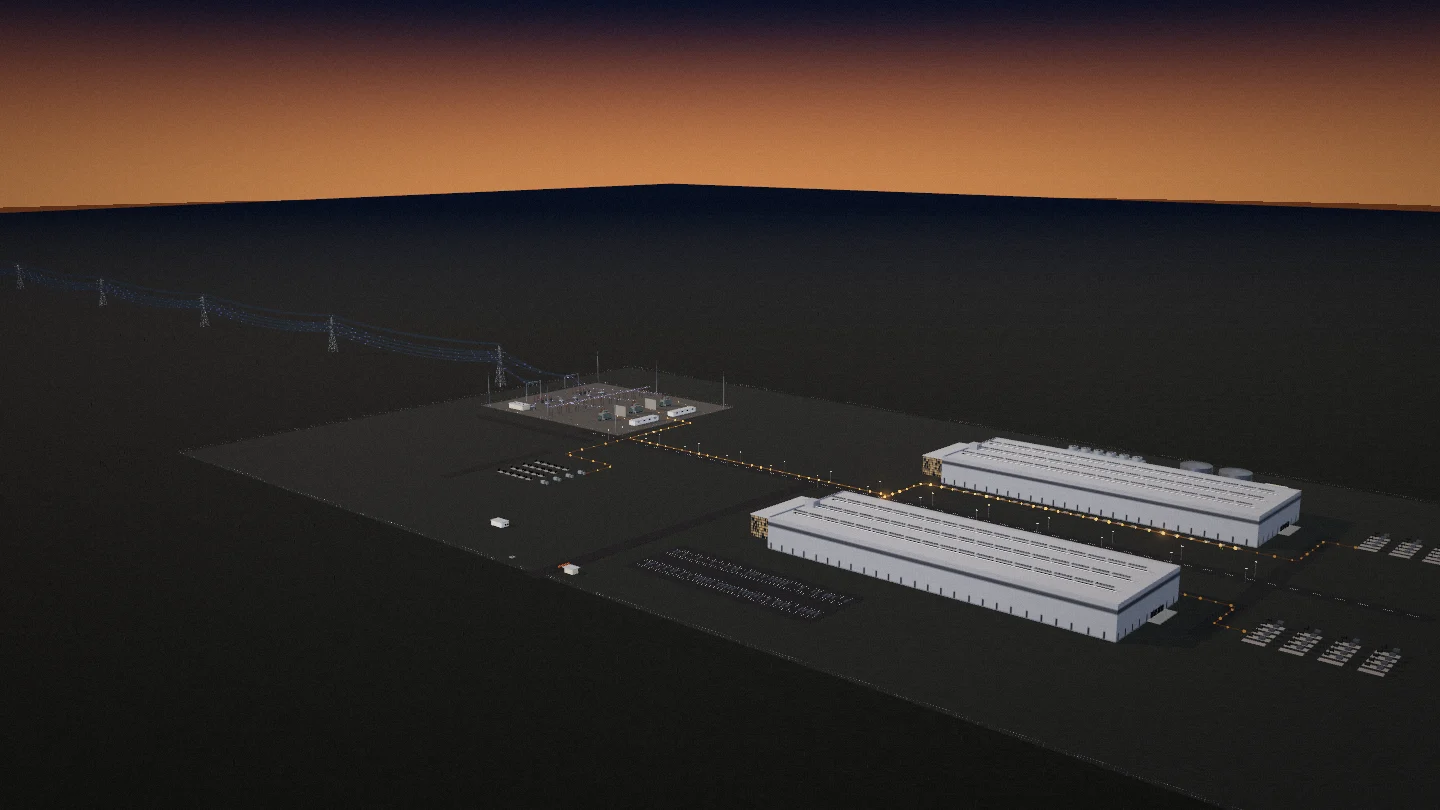
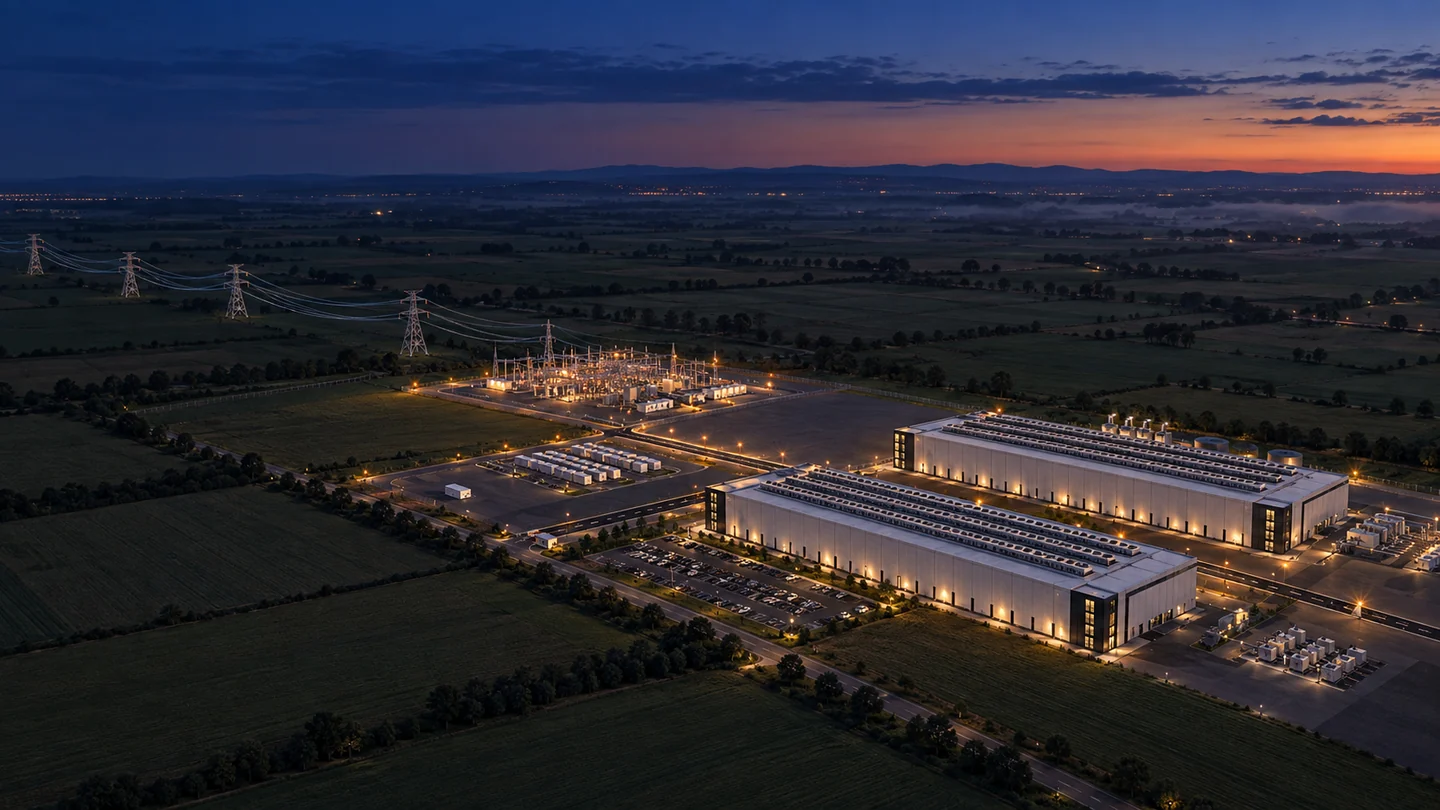
Hero: a photoreal illustration of the campus, drawn from its layout
Astra-6 generated six variants with OpenAI's image tool (the tool does
not name its model version). The input was a render of this site's
campus, so the picture keeps the real layout: the substation fed by a
345 kV line from the left, two data halls, the generator and battery
yards, and farmland around it. Wide variant 2 runs on desktop, with
the campus in the right half and dark fields under the title. Tall
variant 1 runs on phones. The images are upscaled from 1672 px with
Lanczos and a light sharpen, and encoded as WebP (2560, 1440 and 1170
px wide).

- On phones the picture takes the top 64% of the screen, and the words
  start on its dark lower edge instead of covering the halls.
- The caption says what it is: an illustration drawn by an image model
  from this site's campus layout. The alt text describes the scene.
- design/hero/ keeps the brief and the reference render; raw outputs
  in design/hero/incoming/ stay out of git.

diff --git a/src/styles.css b/src/styles.css
@@ -572,10 +572,10 @@ body.scrolled .topbar { background: rgba(3,5,8,.86); border-bottom-color: var(--
 }
 
 /* ---------- the hero ---------- */
-.hero { position: relative; display: grid; align-items: end; min-height: 600px; height: min(100vh, 1080px); height: min(100svh, 1080px); padding: calc(var(--bar) + 40px) var(--gutter) clamp(40px, 7vh, 88px); overflow: hidden; isolation: isolate; background: #06080b; }
+.hero { position: relative; display: grid; align-items: end; min-height: 600px; height: min(100vh, 1080px); height: min(100svh, 1080px); padding: calc(var(--bar) + 40px) var(--gutter) clamp(40px, 7vh, 88px); overflow: hidden; isolation: isolate; background: #000; }   /* matches the fade at the foot of the picture */
 .hero-img, .hero-img img { position: absolute; inset: 0; width: 100%; height: 100%; }
 .hero-img { z-index: -2; }
-.hero-img img { object-fit: cover; object-position: 60% 50%; }
+.hero-img img { object-fit: cover; object-position: 68% 50%; }   /* the campus sits in the right half */
 /* the words sit on the dark ground at the lower left; the render keeps the rest */
 .hero::before { content: ""; position: absolute; inset: 0; z-index: -1; background:
   linear-gradient(90deg, rgba(0,0,0,.86) 0%, rgba(0,0,0,.62) 30%, rgba(0,0,0,.12) 62%, rgba(0,0,0,0) 80%),
@@ -590,11 +590,15 @@ body.scrolled .topbar { background: rgba(3,5,8,.86); border-bottom-color: var(--
 .hero .btn:not(.go) { background: rgba(0,0,0,.35); backdrop-filter: blur(6px); }
 .hero-cap { position: absolute; right: var(--gutter); bottom: 20px; margin: 0; font: 400 10.5px/1.4 var(--mono); letter-spacing: .08em; text-transform: uppercase; color: rgba(240,240,250,.5); text-align: right; white-space: nowrap; }
 @media (max-width: 760px) {
-  .hero { min-height: 560px; padding-bottom: 56px; }
-  .hero::before { background: linear-gradient(0deg, #000 0%, rgba(0,0,0,.78) 38%, rgba(0,0,0,.2) 66%, rgba(0,0,0,.35) 100%); }
+  /* phones: the picture gets the top of the screen, the words start on its dark lower edge */
+  .hero { height: auto; min-height: 0; align-items: start; padding: 0 var(--gutter) 64px; }
+  .hero-img { position: relative; inset: auto; z-index: 0; height: 64vh; height: 64svh; margin: 0 calc(-1 * var(--gutter)); width: auto; }
+  .hero-img img { object-position: 50% 12%; }
+  .hero::before { inset: 0 0 auto 0; height: 64svh; z-index: 1; background: linear-gradient(0deg, #000 0%, rgba(0,0,0,.55) 26%, rgba(0,0,0,0) 55%), linear-gradient(180deg, rgba(0,0,0,.5) 0%, rgba(0,0,0,0) 18%); }
+  .hero-in { position: relative; z-index: 2; margin-top: -120px; }
   .hero h1 { font-size: clamp(48px, 15vw, 72px); }
   .hero .lede { font-size: 15.5px; }
-  .hero-cap { left: var(--gutter); right: auto; bottom: 16px; text-align: left; }
+  .hero-cap { left: var(--gutter); right: var(--gutter); bottom: 20px; text-align: left; white-space: normal; }
 }
 
 /* ---------- chapters ---------- */

diff --git a/index.html b/index.html
@@ -30,7 +30,7 @@
 <section class="hero" id="top" aria-labelledby="hero-h">
   <picture class="hero-img">
     <source media="(max-aspect-ratio: 4/5)" srcset="hero/campus-tall.webp">
-    <img src="hero/campus.webp" srcset="hero/campus-1440.webp 1440w, hero/campus.webp 2880w" sizes="100vw" alt="An AI campus at dusk, rendered by this page's 3D engine: the substation, two long data halls and the dry coolers on their roofs." fetchpriority="high">
+    <img src="hero/campus.webp" srcset="hero/campus-1440.webp 1440w, hero/campus.webp 2560w" sizes="100vw" alt="Illustration of an AI campus at blue hour: a lit substation fed by a transmission line from the left, two long data halls with dry coolers on their roofs, a generator yard and farmland around it." fetchpriority="high">
   </picture>
   <div class="hero-in">
     <p class="eyebrow">Power · Data · Heat · Six scales</p>
@@ -39,7 +39,7 @@
     <p class="lede">Follow the power from the plants on a 2,000 km grid into one AI campus: 345,000 volts at the fence, down through the substation, the halls, a rack and a tray, to 0.8 V at a GPU die, and out as tokens. Switch to the data layer to follow the links back out, or to heat to follow every watt to the sky. Every number says where it comes from.</p>
     <div class="hero-actions"><a class="btn go" href="#tour-story" id="story-hero-play">▶ Play the overview</a><a class="btn" href="#explore" id="hero-explore">Explore the campus</a><span class="hint-inline">or follow <a href="#tour-watt" data-tour-start="watt">a watt</a>, <a href="#tour-request" data-tour-start="request">a request</a> or <a href="#tour-heat" data-tour-start="heat">the heat</a></span></div>
   </div>
-  <p class="hero-cap" id="hero-cap">Rendered in this page's own 3D engine</p>
+  <p class="hero-cap" id="hero-cap">Illustration, drawn by an image model from this site's campus layout</p>
 </section>
 <main class="wrap">
   <header class="chapter" id="explore" style="--c: var(--accent)">

diff --git a/design/hero/BRIEF.md b/design/hero/BRIEF.md
@@ -1,0 +1,50 @@
+# Hero image brief: The Intelligence Factory
+
+The site is a public explainer of an AI data center campus (reedos.github.io/intelligence_factory). It needs one
+hero image at the top of the home page, with a large headline set over it.
+
+## Model
+
+Use the highest-fidelity image model you have (GPT Image 2.5 or newer), at the highest quality setting.
+
+## Reference
+
+`C:\Users\reedo\projects\intelligence_factory\design\hero\reference-campus.png` is a render of the campus from the
+site's own 3D engine. Use it as the layout and camera reference.
+
+Keep from the reference:
+- the camera angle, a high three-quarter aerial view
+- the substation yard, with a 345 kV transmission line arriving from the left horizon
+- two long data halls, lower right
+- the generator yard beside the halls, the parking lot and the battery yard
+- the farmland around the site
+
+## Change
+
+Make it a photorealistic, architecturally striking aerial photograph at blue hour:
+- monolithic halls with ribbed pale-concrete and dark-glass facades, and rooftop dry coolers with faint warm lights
+- a lit substation with steel gantries, and lattice towers carrying the line toward distant low hills
+- service roads traced by thin amber lights, with a light haze over the site
+- a deep indigo sky over a thin amber horizon
+- physically accurate light and crisp detail
+
+## Composition
+
+Put the campus in the right two-thirds of the frame. Keep the left third calm, dark open ground or sky, because
+the headline sits there.
+
+## Deliver
+
+Save everything to `C:\Users\reedo\projects\intelligence_factory\design\hero\incoming\`:
+- four wide variants, 16:9 or 3:2, at the largest size the model offers: `hero-wide-1.png` to `hero-wide-4.png`
+- two tall variants for phones, 9:16 or 2:3, with the campus in the upper half and dark ground below:
+  `hero-tall-1.png` and `hero-tall-2.png`
+- `notes.md`, with the model, the settings and the exact prompt you used
+
+## Rules
+
+- No text, logos, watermarks or brand names.
+- No close-up people.
+- Don't add buildings beyond what the reference shows.
+- The site will caption it "Illustration".
+- Don't edit anything else in the repo.
